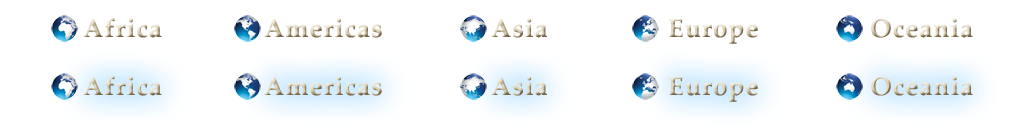
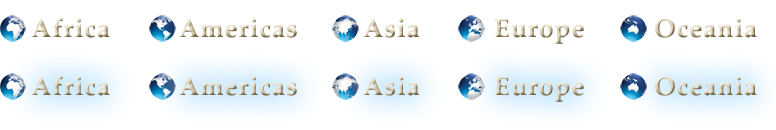
Images updates to the billboard panel, which now includes Europe

diff --git a/content/panels/index.html b/content/panels/index.html
@@ -147,6 +147,7 @@
            <li class="africa-glow"></li>
            <li class="americas"></li>
            <li class="asia"></li>
+           <li class="europe"></li>
            <li class="oceania"></li>
          </ul>
          <div class="three-image-container">
@@ -166,6 +167,7 @@
            <li class="africa-glow"></li>
            <li class="americas"></li>
            <li class="asia"></li>
+           <li class="europe"></li>
            <li class="oceania"></li>
          </ul>
          <div class="three-image-container">
@@ -185,6 +187,7 @@
            <li class="africa-glow"></li>
            <li class="americas"></li>
            <li class="asia"></li>
+           <li class="europe"></li>
            <li class="oceania"></li>
          </ul>
          <div class="three-image-container">
@@ -204,6 +207,7 @@
            <li class="africa"></li>
            <li class="americas-glow"></li>
            <li class="asia"></li>
+           <li class="europe"></li>
            <li class="oceania"></li>
          </ul>
          <div class="three-image-container">
@@ -222,6 +226,7 @@
            <li class="africa"></li>
            <li class="americas-glow"></li>
            <li class="asia"></li>
+           <li class="europe"></li>
            <li class="oceania"></li>
          </ul>
          <div class="three-image-container">  
@@ -241,11 +246,12 @@
            <li class="africa"></li>
            <li class="americas-glow"></li>
            <li class="asia"></li>
+           <li class="europe"></li>
            <li class="oceania"></li>
          </ul>
          <div class="three-image-container">
-          <a href="gallery/v/costa_rica_billboards/"><img alt="Costa Rica" class="three-image" src="<%= images_url %>/photos/costa_rica_01.jpg"></a>
-          <h3 class="left">Costa Rica</h3></div>                
+          <a href="gallery/v/chile_billboards/"><img alt="Chile" class="three-image" src="<%= images_url %>/photos/chile_01.jpg"></a>
+          <h3 class="left">Chile</h3></div>                
          <div class="three-image-container">
           <a href="gallery/v/delaware_billboards/"><img class="three-image" src="<%= images_url %>/photos/delaware_01.jpg" alt="Delaware, USA"></a>
           <h3 class="left">New Castle, Delaware, USA</h3></div>
@@ -259,6 +265,7 @@
            <li class="africa"></li>
            <li class="americas"></li>
            <li class="asia-glow"></li>
+           <li class="europe"></li>
            <li class="oceania"></li>
          </ul>
          <div class="three-image-container">  
@@ -278,6 +285,7 @@
            <li class="africa"></li>
            <li class="americas"></li>
            <li class="asia-glow"></li>
+           <li class="europe"></li>
            <li class="oceania"></li>
          </ul>
          <div class="three-image-container">  
@@ -298,6 +306,7 @@
            <li class="africa"></li>
            <li class="americas"></li>
            <li class="asia-glow"></li>
+           <li class="europe"></li>
            <li class="oceania"></li>
          </ul>
          <div class="three-image-container">  
@@ -318,6 +327,7 @@
            <li class="africa"></li>
            <li class="americas"></li>
            <li class="asia-glow"></li>
+           <li class="europe"></li>
            <li class="oceania"></li>
          </ul>
          <div class="three-image-container">  
@@ -339,6 +349,7 @@
            <li class="africa"></li>
            <li class="americas"></li>
            <li class="asia-glow"></li>
+           <li class="europe"></li>
            <li class="oceania"></li>
          </ul>
          <div class="three-image-container">  
@@ -348,8 +359,8 @@
           <a href="gallery/v/taiwan_billboards/"><img alt="Taiwan" class="three-image" src="<%= images_url %>/photos/taiwan_01.jpg"></a>
           <h3 class="left">Taipei, Taiwan</h3></div>                
          <div class="three-image-container">  
-          <a href="gallery/v/turkey_billboards/"><img alt="Turkey" class="three-image" src="<%= images_url %>/photos/turkey_01.jpg"></a>
-          <h3 class="left">Istanbul, Turkey</h3></div>
+          <a href="gallery/v/singapore_billboards/"><img alt="Singapore" class="three-image" src="<%= images_url %>/photos/singapore_02.jpg"></a>
+          <h3 class="left">Singapore</h3></div>
        </div>
        
        <div class="billboard">
@@ -357,6 +368,28 @@
            <li class="africa"></li>
            <li class="americas"></li>
            <li class="asia"></li>
+           <li class="europe-glow"></li>
+           <li class="oceania"></li>
+         </ul>
+         <div class="three-image-container">  
+          <a href="gallery/v/uk_billboards/"><img alt="UK" class="three-image" src="<%= images_url %>/photos/uk_01.jpg"></a>
+          <h3 class="left">London, England</h3></div>
+         <div class="three-image-container">  
+          <a href="gallery/v/ireland_billboards/"><img alt="Ireland" class="three-image" src="<%= images_url %>/photos/ireland_01.jpg"></a>
+          <a href="gallery/v/ireland_billboards/"><img class="ribbon" src="<%= images_url %>/new_ribbon.png"></a>
+         <h3 class="left">Ireland</h3></div>                
+         <div class="three-image-container">  
+          <a href="gallery/v/turkey_billboards/"><img alt="Turkey" class="three-image" src="<%= images_url %>/photos/turkey_03.jpg"></a>
+          <a href="gallery/v/turkey_billboards/"><img class="ribbon" src="<%= images_url %>/new_ribbon.png"></a>
+          <h3 class="left">Rize, Turkey</h3></div>
+       </div>
+       
+       <div class="billboard">
+         <ul class="location-bar">
+           <li class="africa"></li>
+           <li class="americas"></li>
+           <li class="asia"></li>
+           <li class="europe"></li>
            <li class="oceania-glow"></li>
          </ul>
          <div class="three-image-container">  
@@ -376,6 +409,7 @@
            <li class="africa"></li>
            <li class="americas"></li>
            <li class="asia"></li>
+           <li class="europe"></li>
            <li class="oceania-glow"></li>
          </ul>
          <div class="three-image-container">  

diff --git a/content/css/features.css b/content/css/features.css
@@ -12,7 +12,7 @@
 #billboard-background {  
   border-left: 1px solid #003366;
   border-right: 1px solid #003366;
-  background: url("<%= images_url %>/billboard_bground.jpg") repeat-x;
+  background: url(<%= images_url %>/billboard_bground.jpg) repeat-x;
   opacity: 0.7;
   filter: alpha(opacity=70);
   position: absolute;
@@ -280,7 +280,7 @@ li#forward-button a:active {
 
 /* Continents Location Bar Sprite */
 .location-bar {
-  margin: -15px 0 0 0;
+  margin: -15px 0 0 10px;
   padding-left: 0;
   list-style: none;
   width: 100%;
@@ -289,7 +289,6 @@ li#forward-button a:active {
 .location-bar li {
   padding: 0;
   margin: 0 0 4px 0;
-  width: 202px;
   height: 60px;
   float: left;
   background: transparent url(<%= images_url %>/location_bar.png) no-repeat;
@@ -299,44 +298,53 @@ li#forward-button a:active {
 }
 
 li.africa {
-  background-position: 0px 0;
+  background-position: 0px 0px;
+  width: 150px;
 }
 
 li.africa-glow {
   background-position: 0px -58px;
+  width: 150px;
 }
 
 li.americas {
-  background-position: -202px 0px;
+  background-position: -150px 0px;
+  width: 185px;
 }
 
 li.americas-glow {
-  background-position: -202px -58px;
+  background-position: -150px -58px;
+  width: 185px;
 }
 
 li.asia {
-  background-position: -404px 0px;
+  background-position: -335px 0px;
+  width: 125px;
 }
 
 li.asia-glow {
-  background-position: -404px -58px;
+  background-position: -335px -58px;
+  width: 125px;
 }
 
 li.europe {
-  background-position: -606px 0px;
+  background-position: -460px 0px;
+  width: 163px;
 }
 
 li.europe-glow {
-  background-position: -606px -58px;
+  background-position: -460px -58px;
+  width: 163px;
 }
 
 li.oceania {
-  background-position: -808px 0px;
+  background-position: -623px 0px;
+  width: 155px;
 }
 
 li.oceania-glow {
-  background-position: -808px -58px;
-}
+  background-position: -623px -58px;
+  width: 155px;
 
 /* Billboard countries/flags sprite */
 .billboard-flags {

diff --git a/content/javascript/jquery.innerfade.js b/content/javascript/jquery.innerfade.js
@@ -269,7 +269,7 @@ function getTimeout(index) {
     case 14: // billboards
       timeout = 4000;
       break;
-    case 15: // moving billboards
+    case 15: // billboards
       timeout = 4000;
       break;
     case 16: // moving billboards
@@ -278,18 +278,18 @@ function getTimeout(index) {
     case 17: // moving billboards
       timeout = 4000;
       break;
-    case 18: // outreach map
+    case 18: // moving billboards
+      timeout = 4000;
+      break;
+    case 19: // outreach map
       timeout = 8000;
       break;
-    case 19: // we can know
+    case 20: // we can know
       timeout = 8000;
       break;      
-    case 20: // family radio
+    case 21: // family radio
       timeout = 8000;
       break;
-    case 21: // request comments
-      timeout = 11000;
-      break;      
     case 22: // request comments
       timeout = 11000;
       break;      
@@ -298,10 +298,10 @@ function getTimeout(index) {
       break;      
     case 24: // request comments
       timeout = 11000;
-      break;            
+      break;      
     case 25: // request comments
       timeout = 11000;
-      break;
+      break;            
     case 26: // request comments
       timeout = 11000;
       break;
@@ -309,6 +309,9 @@ function getTimeout(index) {
       timeout = 11000;
       break;
     case 28: // request comments
+      timeout = 11000;
+      break;
+    case 29: // request comments
       timeout = 11000;
       break;          
     default:

diff --git a/content/javascript/jquery.home.js b/content/javascript/jquery.home.js
@@ -79,7 +79,7 @@
             tabs: true,
             tabsid: 'tabs-wrap',
             tabids: [ 'billboards', 'features', 'comments' ],
-            tabindexes: [ 0, 18, 21 ]            
+            tabindexes: [ 0, 19, 22 ]            
           });
         }
       });
